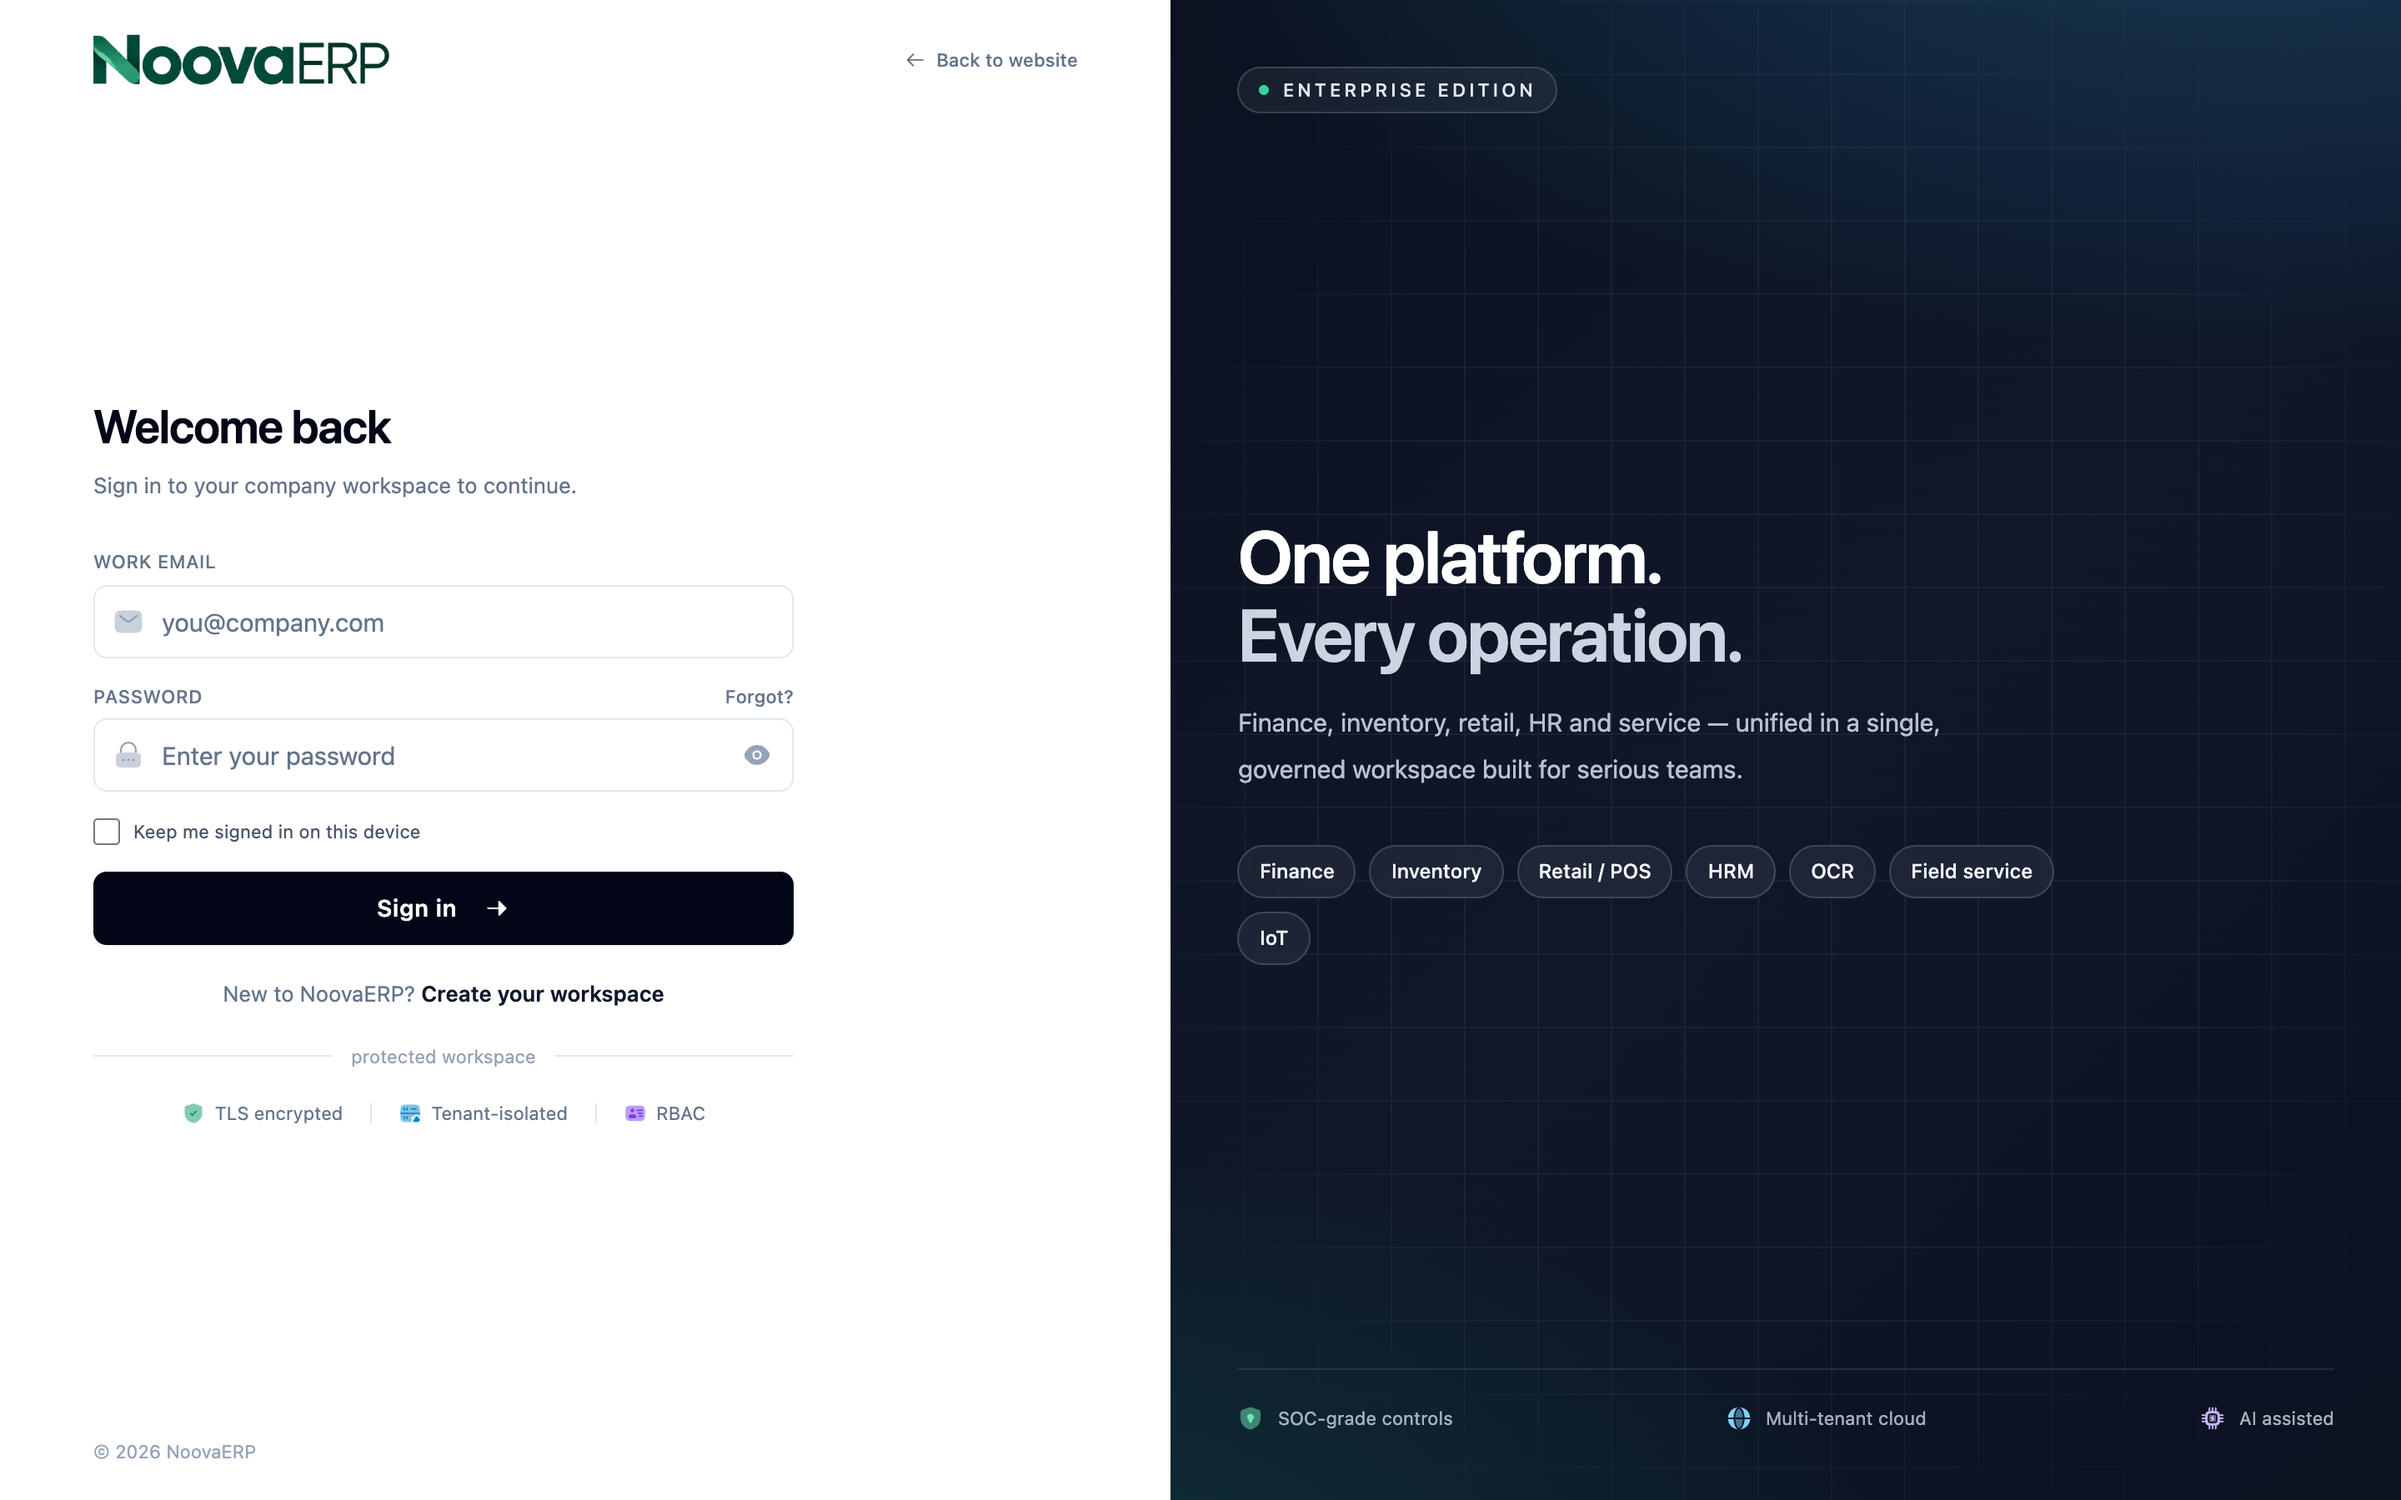
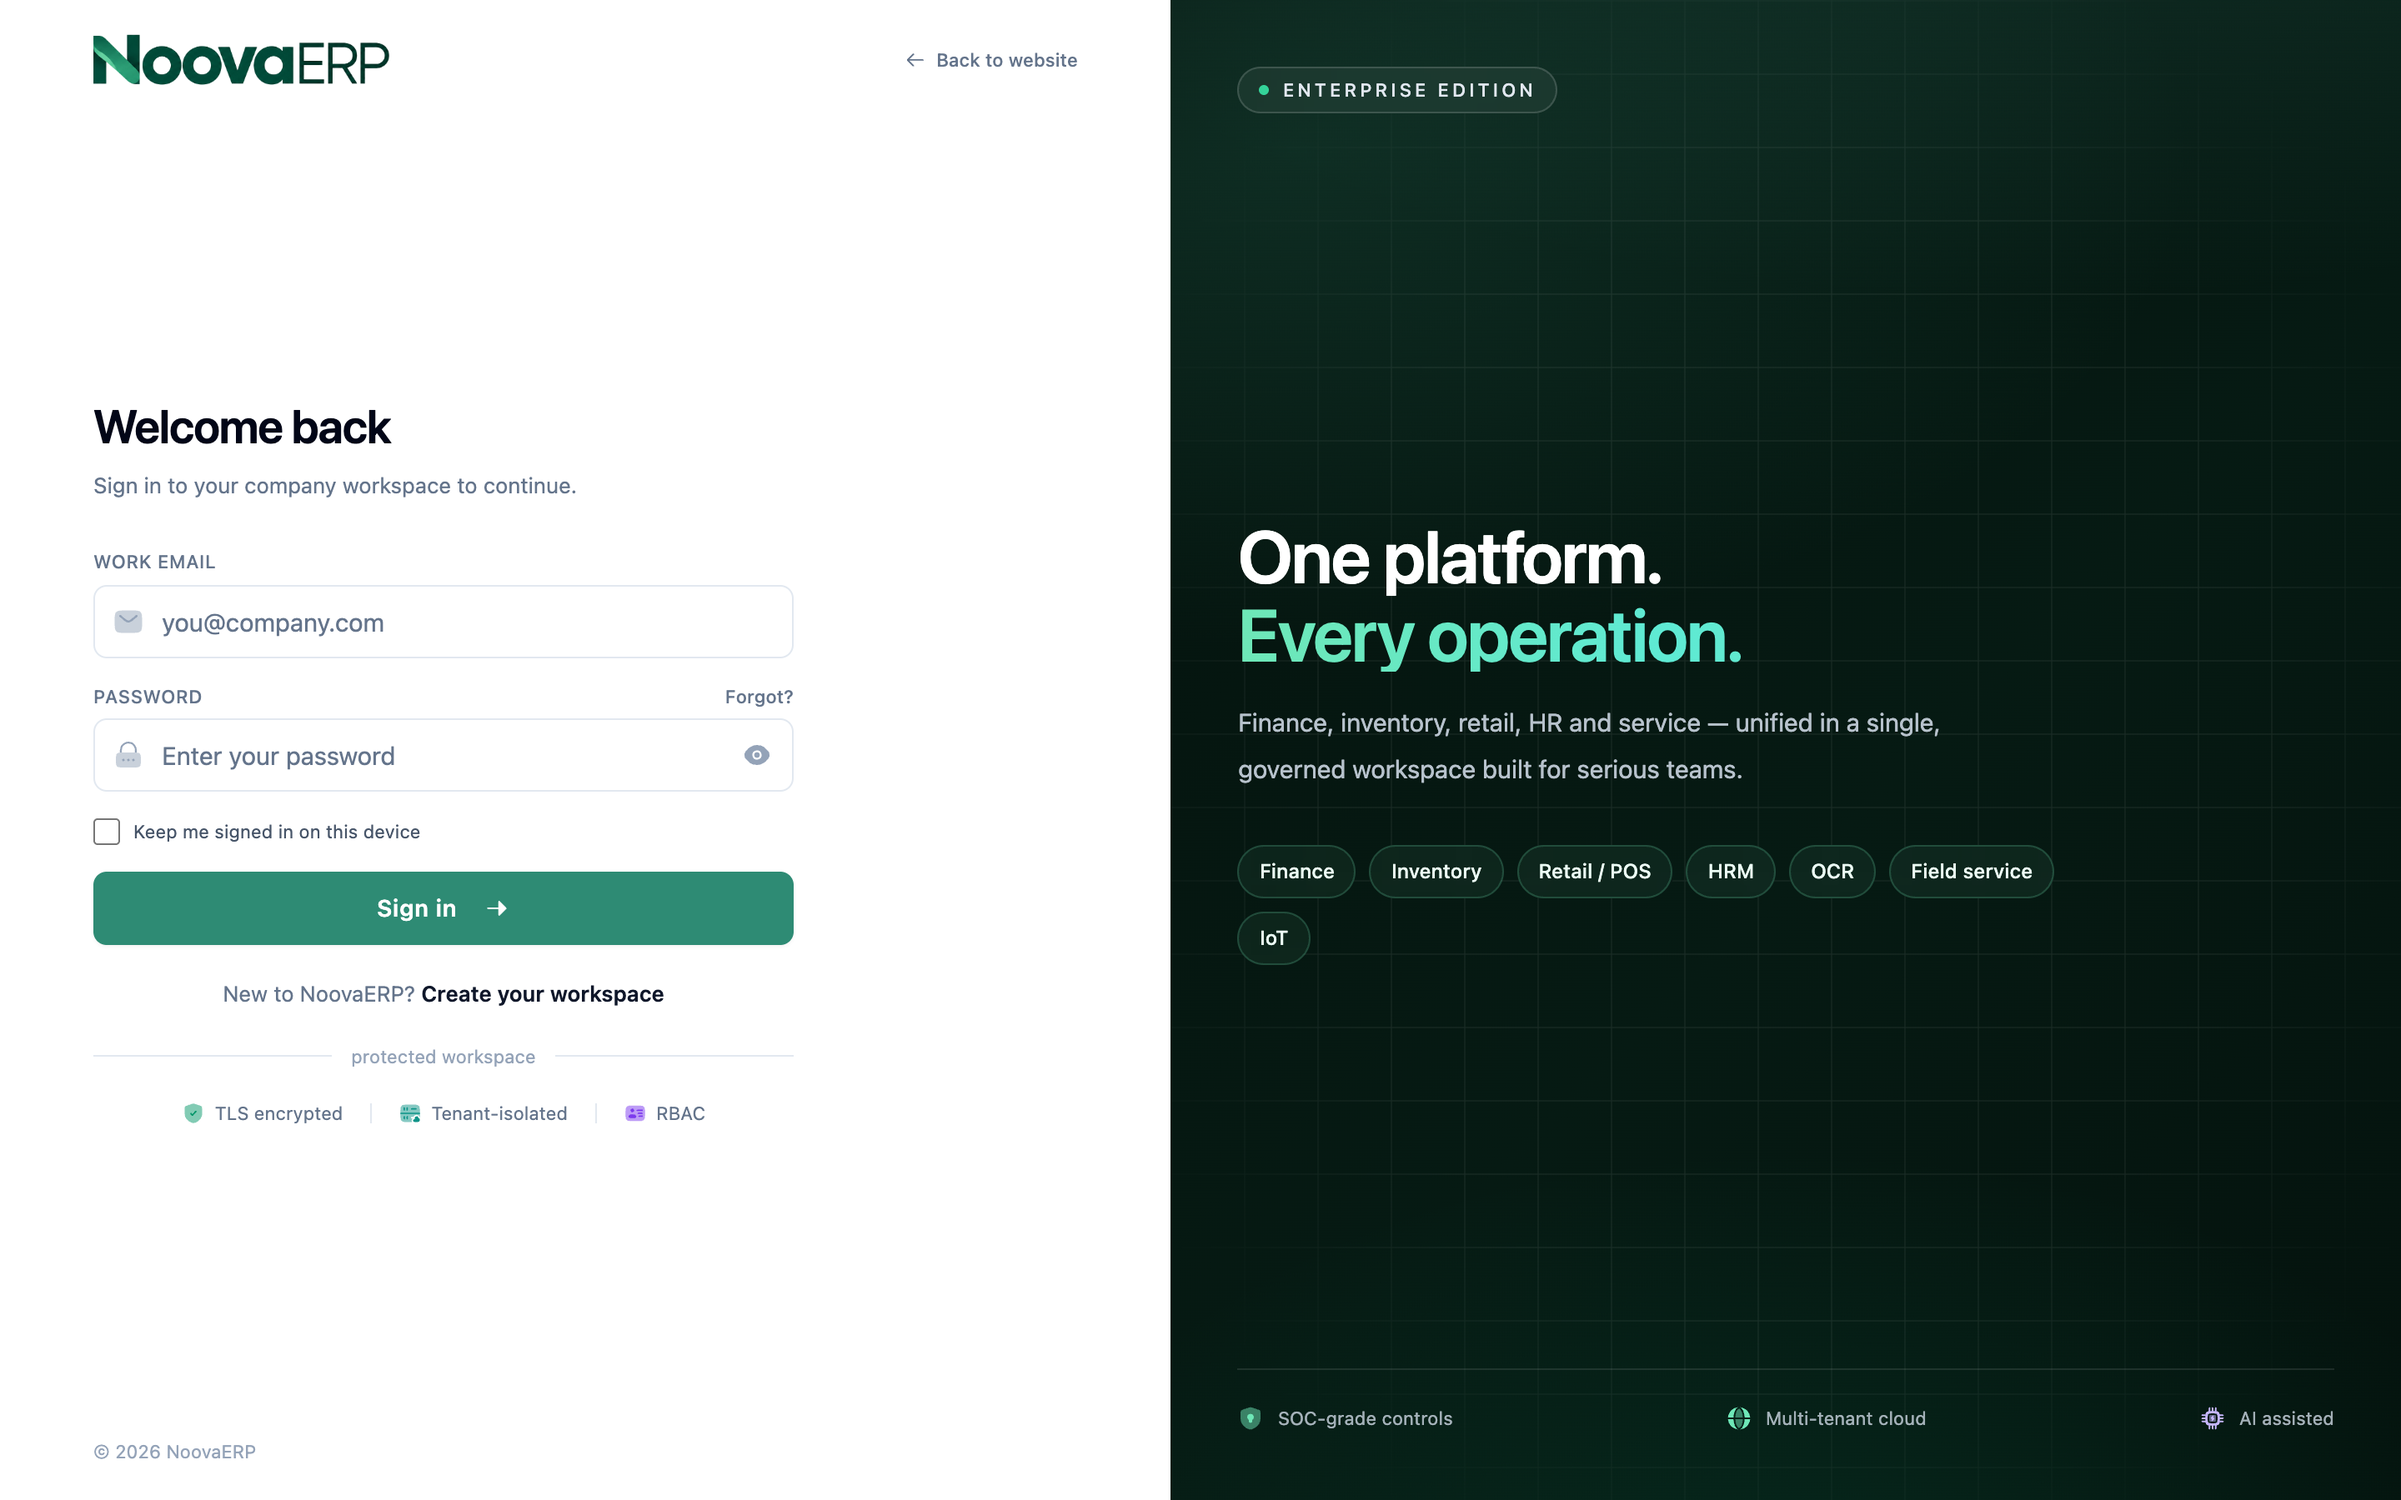
feat: align auth screens with dark mint brand

diff --git a/frontend/src/pages/LoginPage.tsx b/frontend/src/pages/LoginPage.tsx
@@ -174,7 +174,7 @@ export function LoginPage() {
 
                 <Button
                   type="submit"
-                  className="h-11 w-full rounded-lg bg-slate-950 text-[14px] font-semibold tracking-wide text-white shadow-sm transition hover:bg-slate-800"
+                  className="h-11 w-full rounded-lg bg-[#2E8B74] text-[14px] font-semibold tracking-wide text-white shadow-sm transition hover:bg-[#25735F]"
                   disabled={loading}
                 >
                   {loading ? (
@@ -211,7 +211,7 @@ export function LoginPage() {
                 </span>
                 <span className="h-3 w-px bg-slate-200" />
                 <span className="inline-flex items-center gap-1.5">
-                  <Icon icon="solar:server-square-cloud-bold-duotone" className="h-3.5 w-3.5 text-sky-600" />
+                  <Icon icon="solar:server-square-cloud-bold-duotone" className="h-3.5 w-3.5 text-teal-600" />
                   Tenant-isolated
                 </span>
                 <span className="h-3 w-px bg-slate-200" />
@@ -234,9 +234,10 @@ export function LoginPage() {
             className="absolute inset-0"
             style={{
               backgroundImage:
-                'radial-gradient(1100px 500px at 85% -10%, rgba(56,189,248,0.22), transparent 60%),' +
-                'radial-gradient(900px 500px at -10% 110%, rgba(16,185,129,0.18), transparent 60%),' +
-                'linear-gradient(135deg,#0b1220 0%,#0f172a 50%,#0b1220 100%)',
+                'radial-gradient(1200px 600px at 70% -20%, rgba(82,179,155,0.20), transparent 60%),' +
+                'radial-gradient(900px 500px at 10% 10%, rgba(61,163,130,0.18), transparent 60%),' +
+                'radial-gradient(800px 500px at 50% 110%, rgba(16,185,129,0.12), transparent 60%),' +
+                'linear-gradient(135deg,#04120d 0%,#061a13 55%,#04120d 100%)',
             }}
           />
           <div
@@ -261,7 +262,9 @@ export function LoginPage() {
             <div className="my-auto max-w-[520px]">
               <h2 className="text-[44px] font-semibold leading-[1.05] tracking-tight">
                 One platform.
-                <span className="block text-slate-300">Every operation.</span>
+                <span className="block bg-gradient-to-r from-emerald-300 via-teal-300 to-emerald-300 bg-clip-text text-transparent">
+                  Every operation.
+                </span>
               </h2>
               <p className="mt-4 max-w-[440px] text-[15px] leading-7 text-slate-300/90">
                 Finance, inventory, retail, HR and service — unified in a single, governed workspace
@@ -272,7 +275,7 @@ export function LoginPage() {
                 {['Finance', 'Inventory', 'Retail / POS', 'HRM', 'OCR', 'Field service', 'IoT'].map((m) => (
                   <span
                     key={m}
-                    className="rounded-full border border-white/15 bg-white/[0.06] px-3 py-1.5 text-[12px] font-medium text-slate-100 backdrop-blur"
+                    className="rounded-full border border-emerald-300/20 bg-emerald-300/[0.06] px-3 py-1.5 text-[12px] font-medium text-emerald-50 backdrop-blur"
                   >
                     {m}
                   </span>
@@ -286,7 +289,7 @@ export function LoginPage() {
                 SOC-grade controls
               </div>
               <div className="hidden items-center gap-2 sm:flex">
-                <Icon icon="solar:global-bold-duotone" className="h-4 w-4 text-sky-300" />
+                <Icon icon="solar:global-bold-duotone" className="h-4 w-4 text-emerald-300" />
                 Multi-tenant cloud
               </div>
               <div className="flex items-center gap-2">

diff --git a/frontend/src/pages/SignupPage.tsx b/frontend/src/pages/SignupPage.tsx
@@ -260,7 +260,7 @@ export function SignupPage() {
 
                 <Button
                   type="submit"
-                  className="h-11 w-full rounded-lg bg-slate-950 text-[14px] font-semibold tracking-wide text-white shadow-sm transition hover:bg-slate-800"
+                  className="h-11 w-full rounded-lg bg-[#2E8B74] text-[14px] font-semibold tracking-wide text-white shadow-sm transition hover:bg-[#25735F]"
                   disabled={loading}
                 >
                   {loading ? (
@@ -301,9 +301,10 @@ export function SignupPage() {
             className="absolute inset-0"
             style={{
               backgroundImage:
-                'radial-gradient(1100px 500px at 85% -10%, rgba(56,189,248,0.22), transparent 60%),' +
-                'radial-gradient(900px 500px at -10% 110%, rgba(16,185,129,0.18), transparent 60%),' +
-                'linear-gradient(135deg,#0b1220 0%,#0f172a 50%,#0b1220 100%)',
+                'radial-gradient(1200px 600px at 70% -20%, rgba(82,179,155,0.20), transparent 60%),' +
+                'radial-gradient(900px 500px at 10% 10%, rgba(61,163,130,0.18), transparent 60%),' +
+                'radial-gradient(800px 500px at 50% 110%, rgba(16,185,129,0.12), transparent 60%),' +
+                'linear-gradient(135deg,#04120d 0%,#061a13 55%,#04120d 100%)',
             }}
           />
           <div
@@ -328,7 +329,9 @@ export function SignupPage() {
             <div className="my-auto max-w-[520px]">
               <h2 className="text-[40px] font-semibold leading-[1.08] tracking-tight">
                 Two minutes to
-                <span className="block text-slate-300">your own workspace.</span>
+                <span className="block bg-gradient-to-r from-emerald-300 via-teal-300 to-emerald-300 bg-clip-text text-transparent">
+                  your own workspace.
+                </span>
               </h2>
               <p className="mt-4 max-w-[440px] text-[15px] leading-7 text-slate-300/90">
                 Every NoovaERP workspace is a fully isolated tenant with its own data,
@@ -342,7 +345,7 @@ export function SignupPage() {
                     className="flex items-start gap-4 rounded-xl border border-white/10 bg-white/[0.05] p-4 backdrop-blur"
                   >
                     <span className="flex h-10 w-10 shrink-0 items-center justify-center rounded-lg border border-white/10 bg-white/[0.06]">
-                      <Icon icon={step.icon} className="h-5 w-5 text-sky-300" />
+                      <Icon icon={step.icon} className="h-5 w-5 text-emerald-300" />
                     </span>
                     <div>
                       <div className="flex items-center gap-2">
@@ -362,7 +365,7 @@ export function SignupPage() {
                 SOC-grade controls
               </div>
               <div className="hidden items-center gap-2 sm:flex">
-                <Icon icon="solar:global-bold-duotone" className="h-4 w-4 text-sky-300" />
+                <Icon icon="solar:global-bold-duotone" className="h-4 w-4 text-emerald-300" />
                 Multi-tenant cloud
               </div>
               <div className="flex items-center gap-2">
